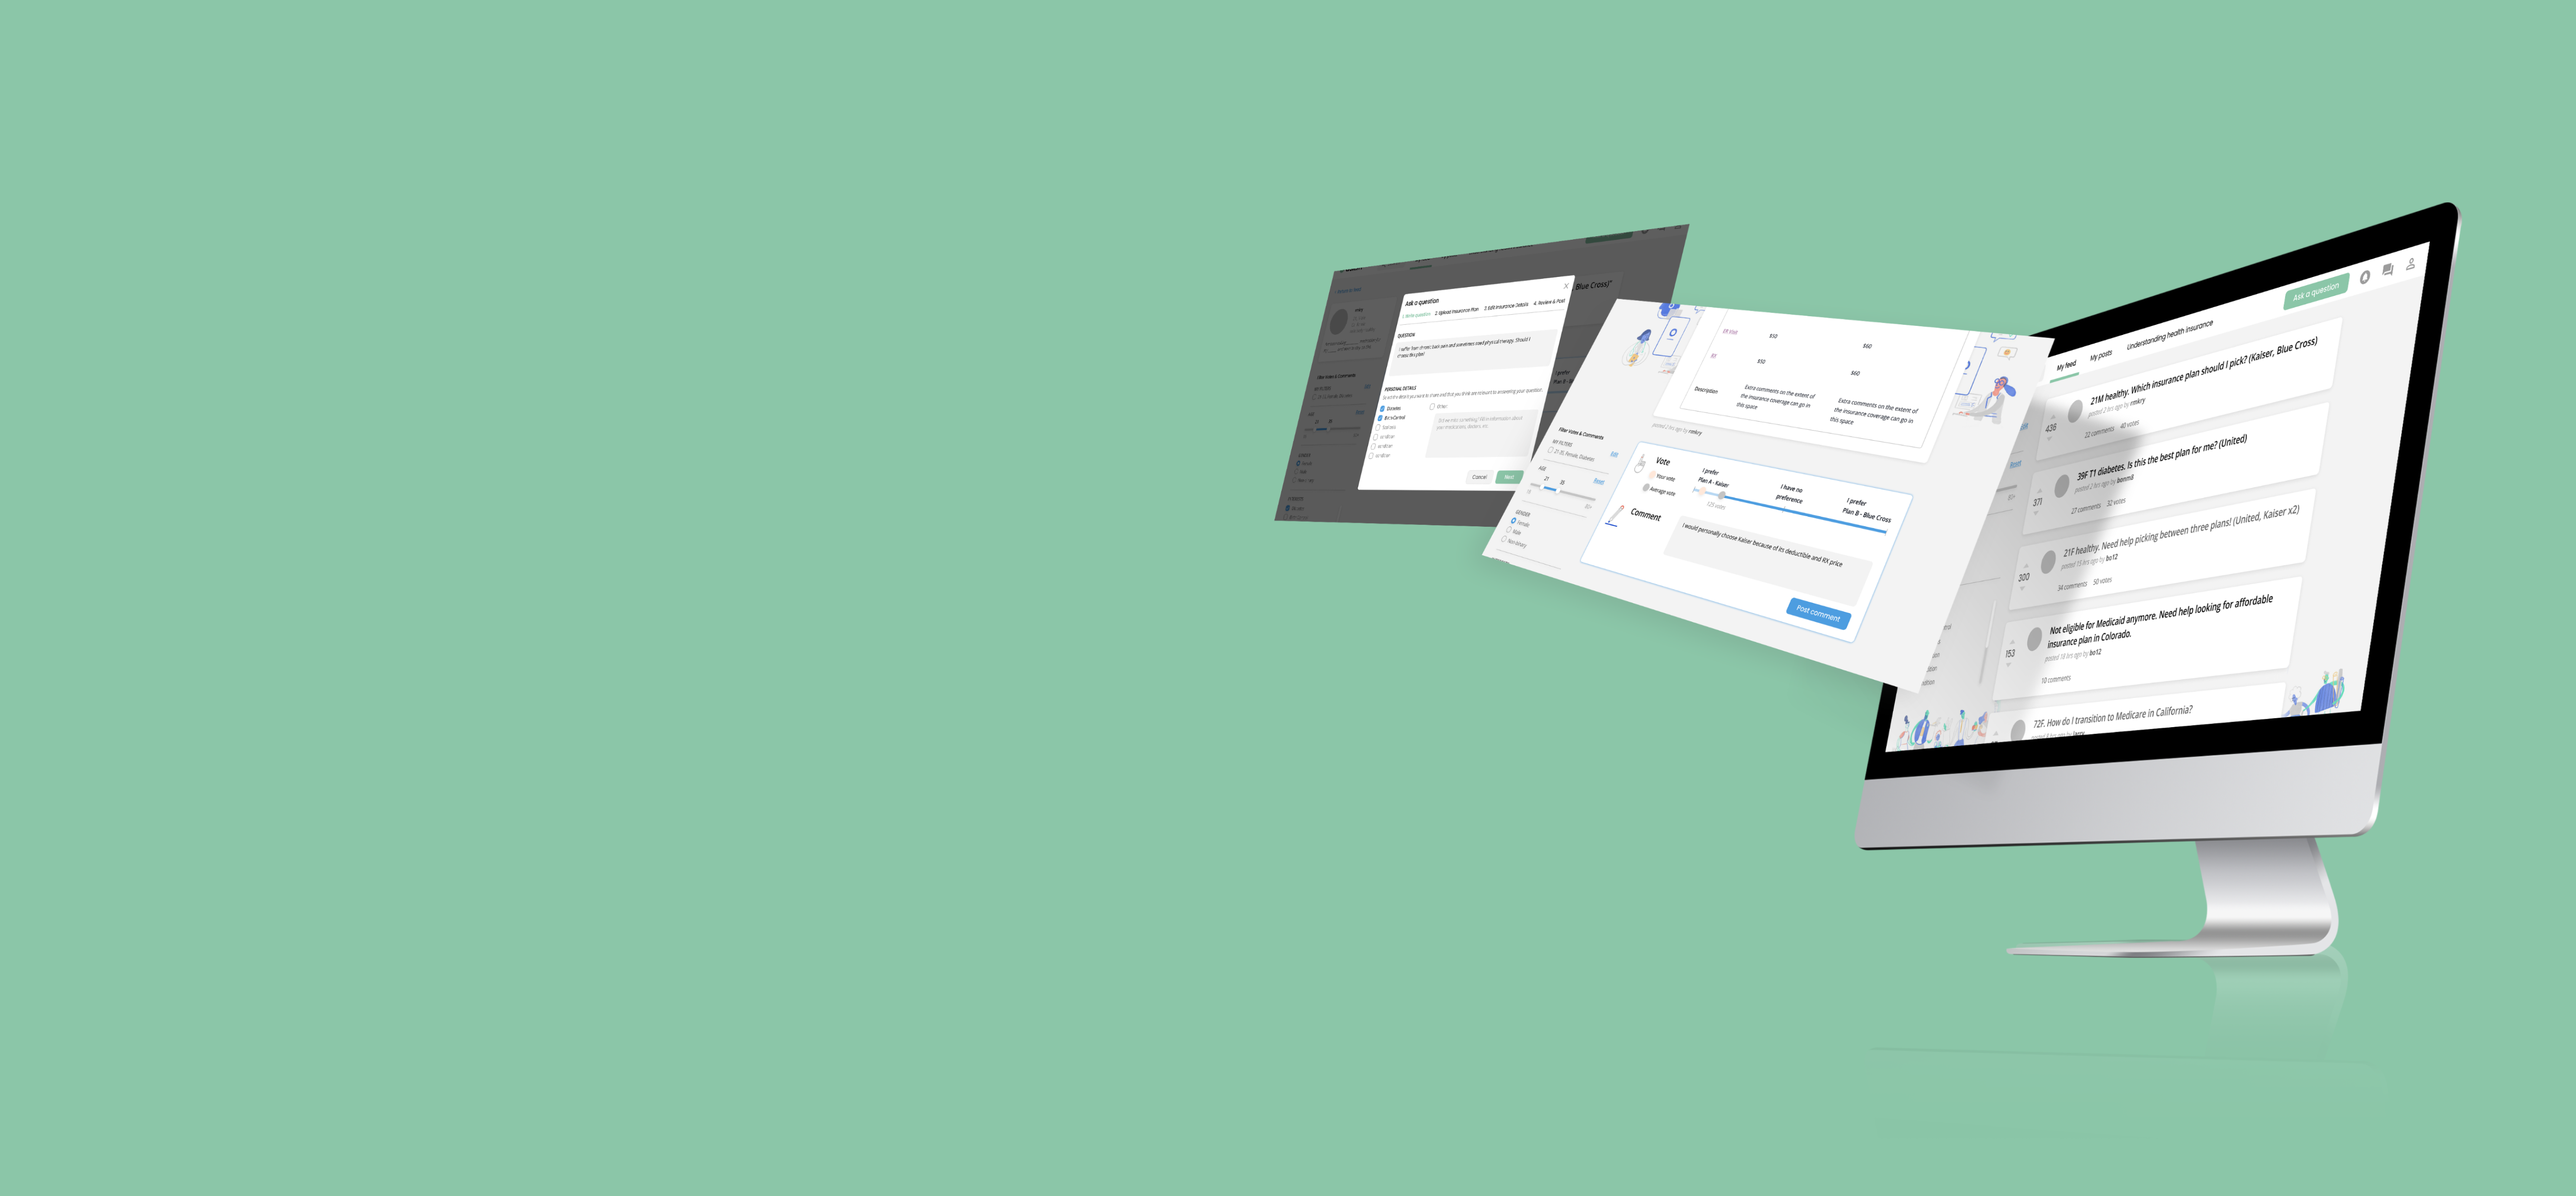
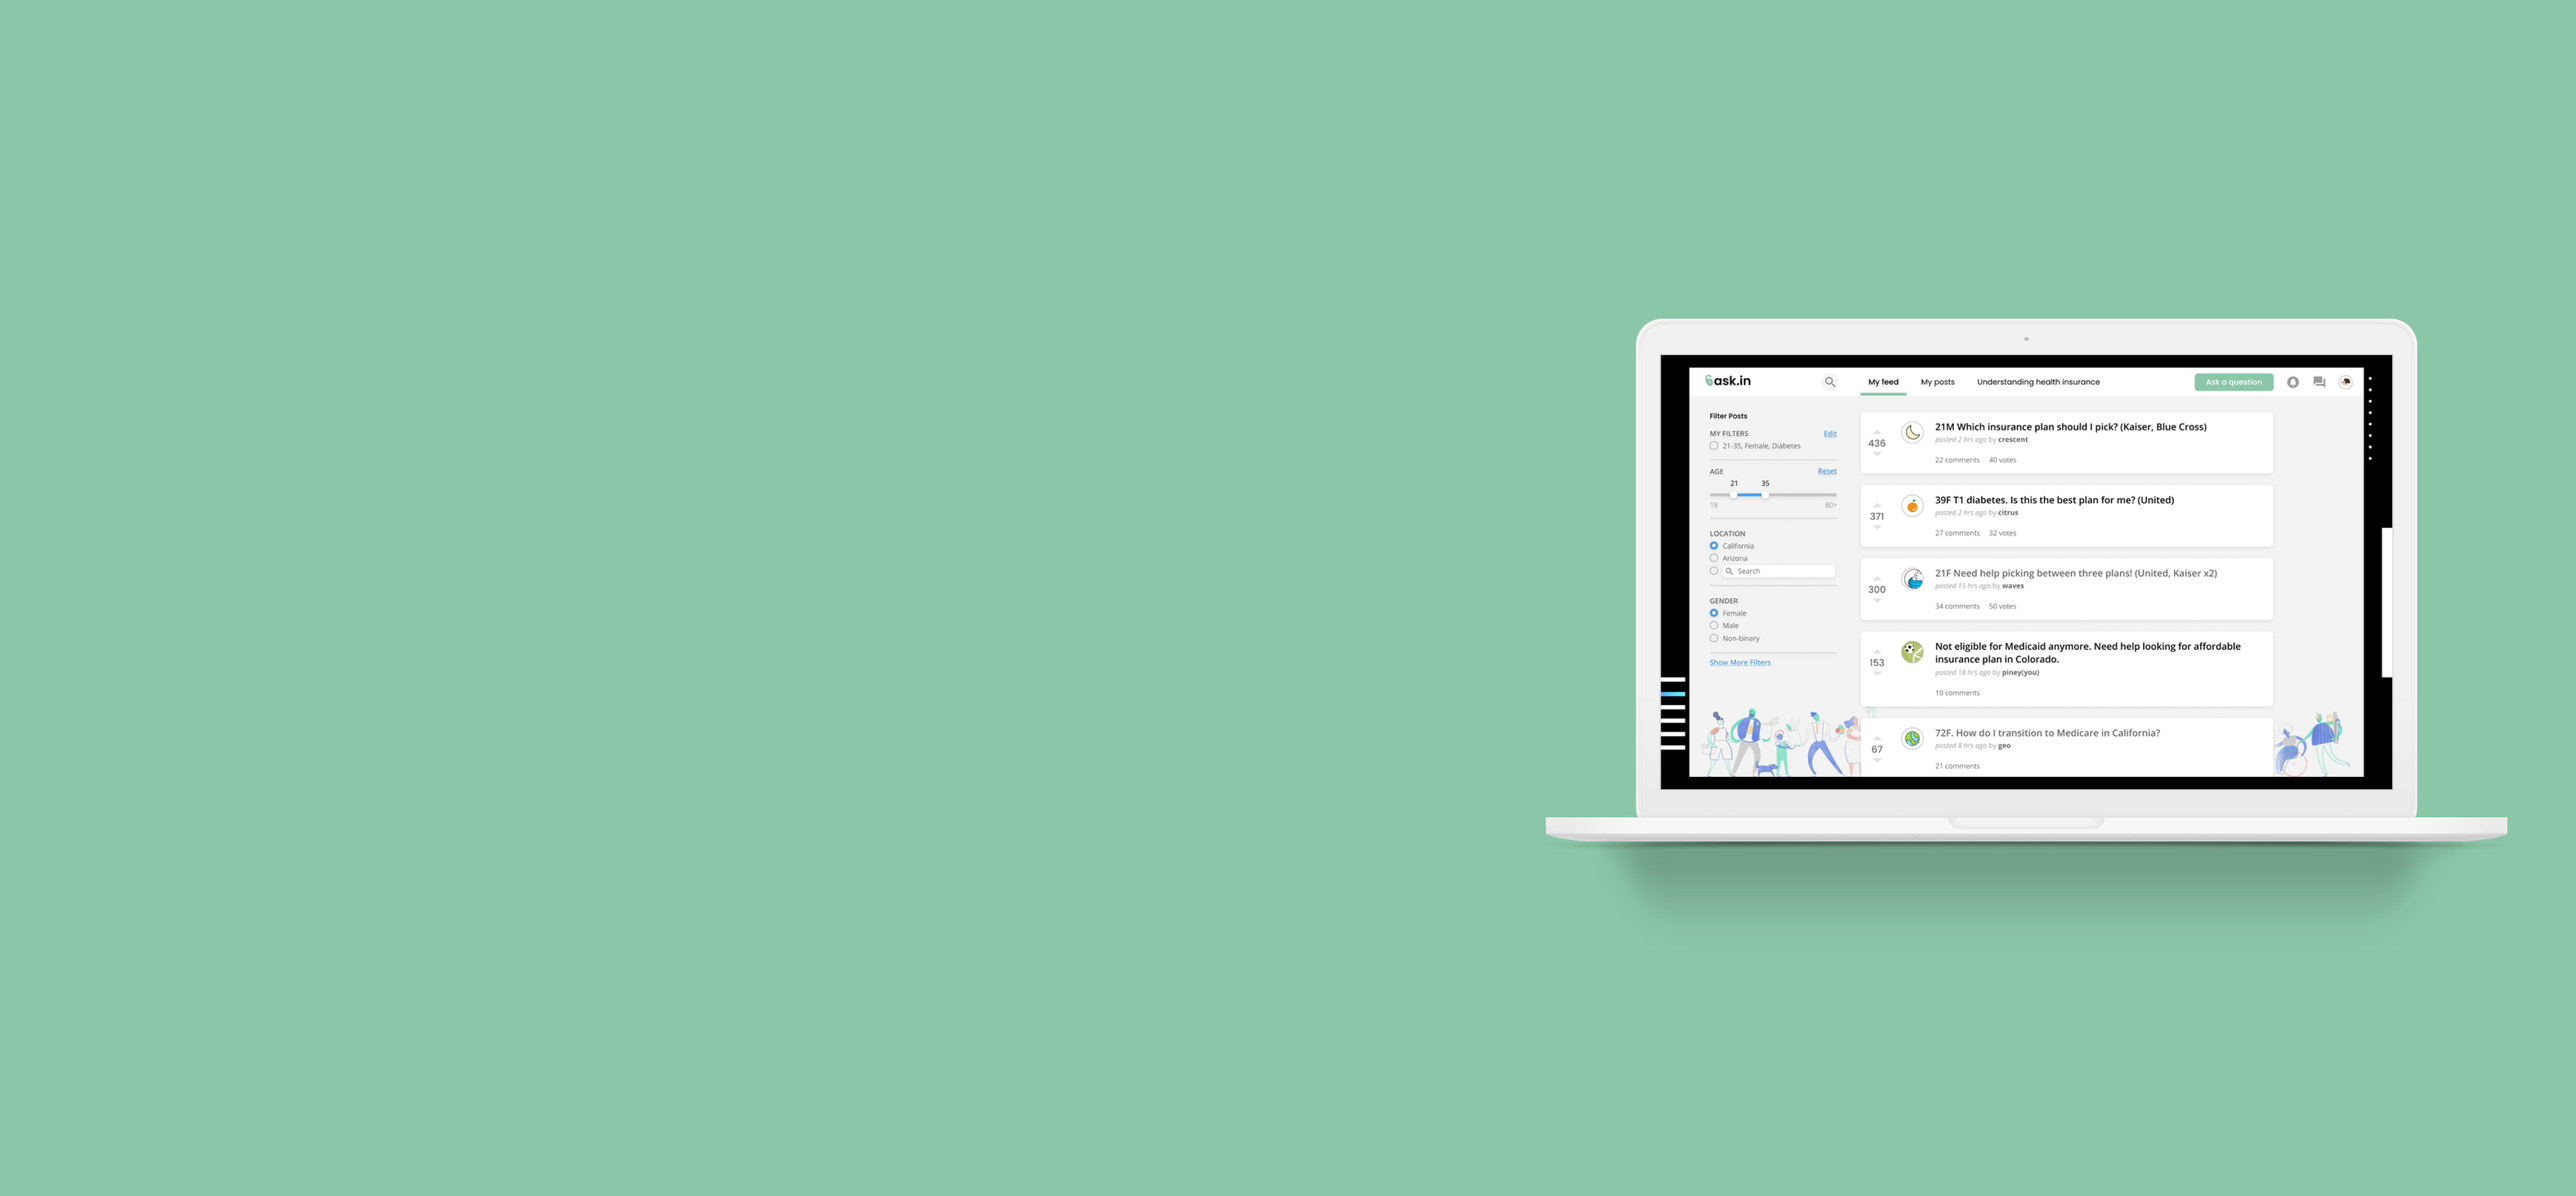
updated background image and formatting

Changed region(s): [[0.4976, 0.1558, 0.9951, 0.8101]]

diff --git a/assets/css/main.css b/assets/css/main.css
@@ -3246,7 +3246,7 @@ input, select, textarea {
 			@media screen and (max-width: 1680px) {
 
 				.wrapper > .inner {
-					padding: 4em 4em 2em 4em ;
+					padding: 4em 2em 4em 2em ;
 				}
 
 			}
@@ -3277,7 +3277,7 @@ input, select, textarea {
 			@media screen and (max-width: 1680px) {
 
 				.wrapper > .inner2 {
-					padding: 4em 4em 2em 4em ;
+					padding: 0em 0em 18em 5em ;
 				}
 
 			}
@@ -3286,6 +3286,7 @@ input, select, textarea {
 
 				.wrapper > .inner2 {
 					width: 100%;
+					padding: 0em 0em 13em 5em ;
 				}
 
 			}
@@ -3965,9 +3966,9 @@ input, select, textarea {
 	#intro {
 		background-attachment: scroll;
 		background-image: url("images/home_image.png");
-		background-position: top right;
+		background-position: center right;
 		background-repeat: no-repeat;
-		background-size: auto 100%;
+		background-size: auto 65vw;
 	}
 
 		#intro p {

diff --git a/index.html b/index.html
@@ -36,7 +36,7 @@
 					<section id="intro" class="wrapper style1 fullscreen fade-up">
 						<div class="inner2">
 							<a class="image"><img style="width:30%" src="images/logo-shadow.png" alt="" data-position="0% 0%" /></a>
-							<p style="color: rgba(255, 255, 255, 0.75);">The Key to Unlocking Your Health Insurance</p>
+							<p style="color: rgba(255, 255, 255, 0.75); width: 35vw;">The Key to Unlocking Your Health Insurance</p>
 							<ul class="actions">
 								<li><a href="https://www.figma.com/proto/DSgazxvGULbbsE81VnX8qs/377E-Health-Insurance-Education?node-id=693%3A9391&scaling=min-zoom" class="button">Try Our Prototype</a></li>
 							</ul>
